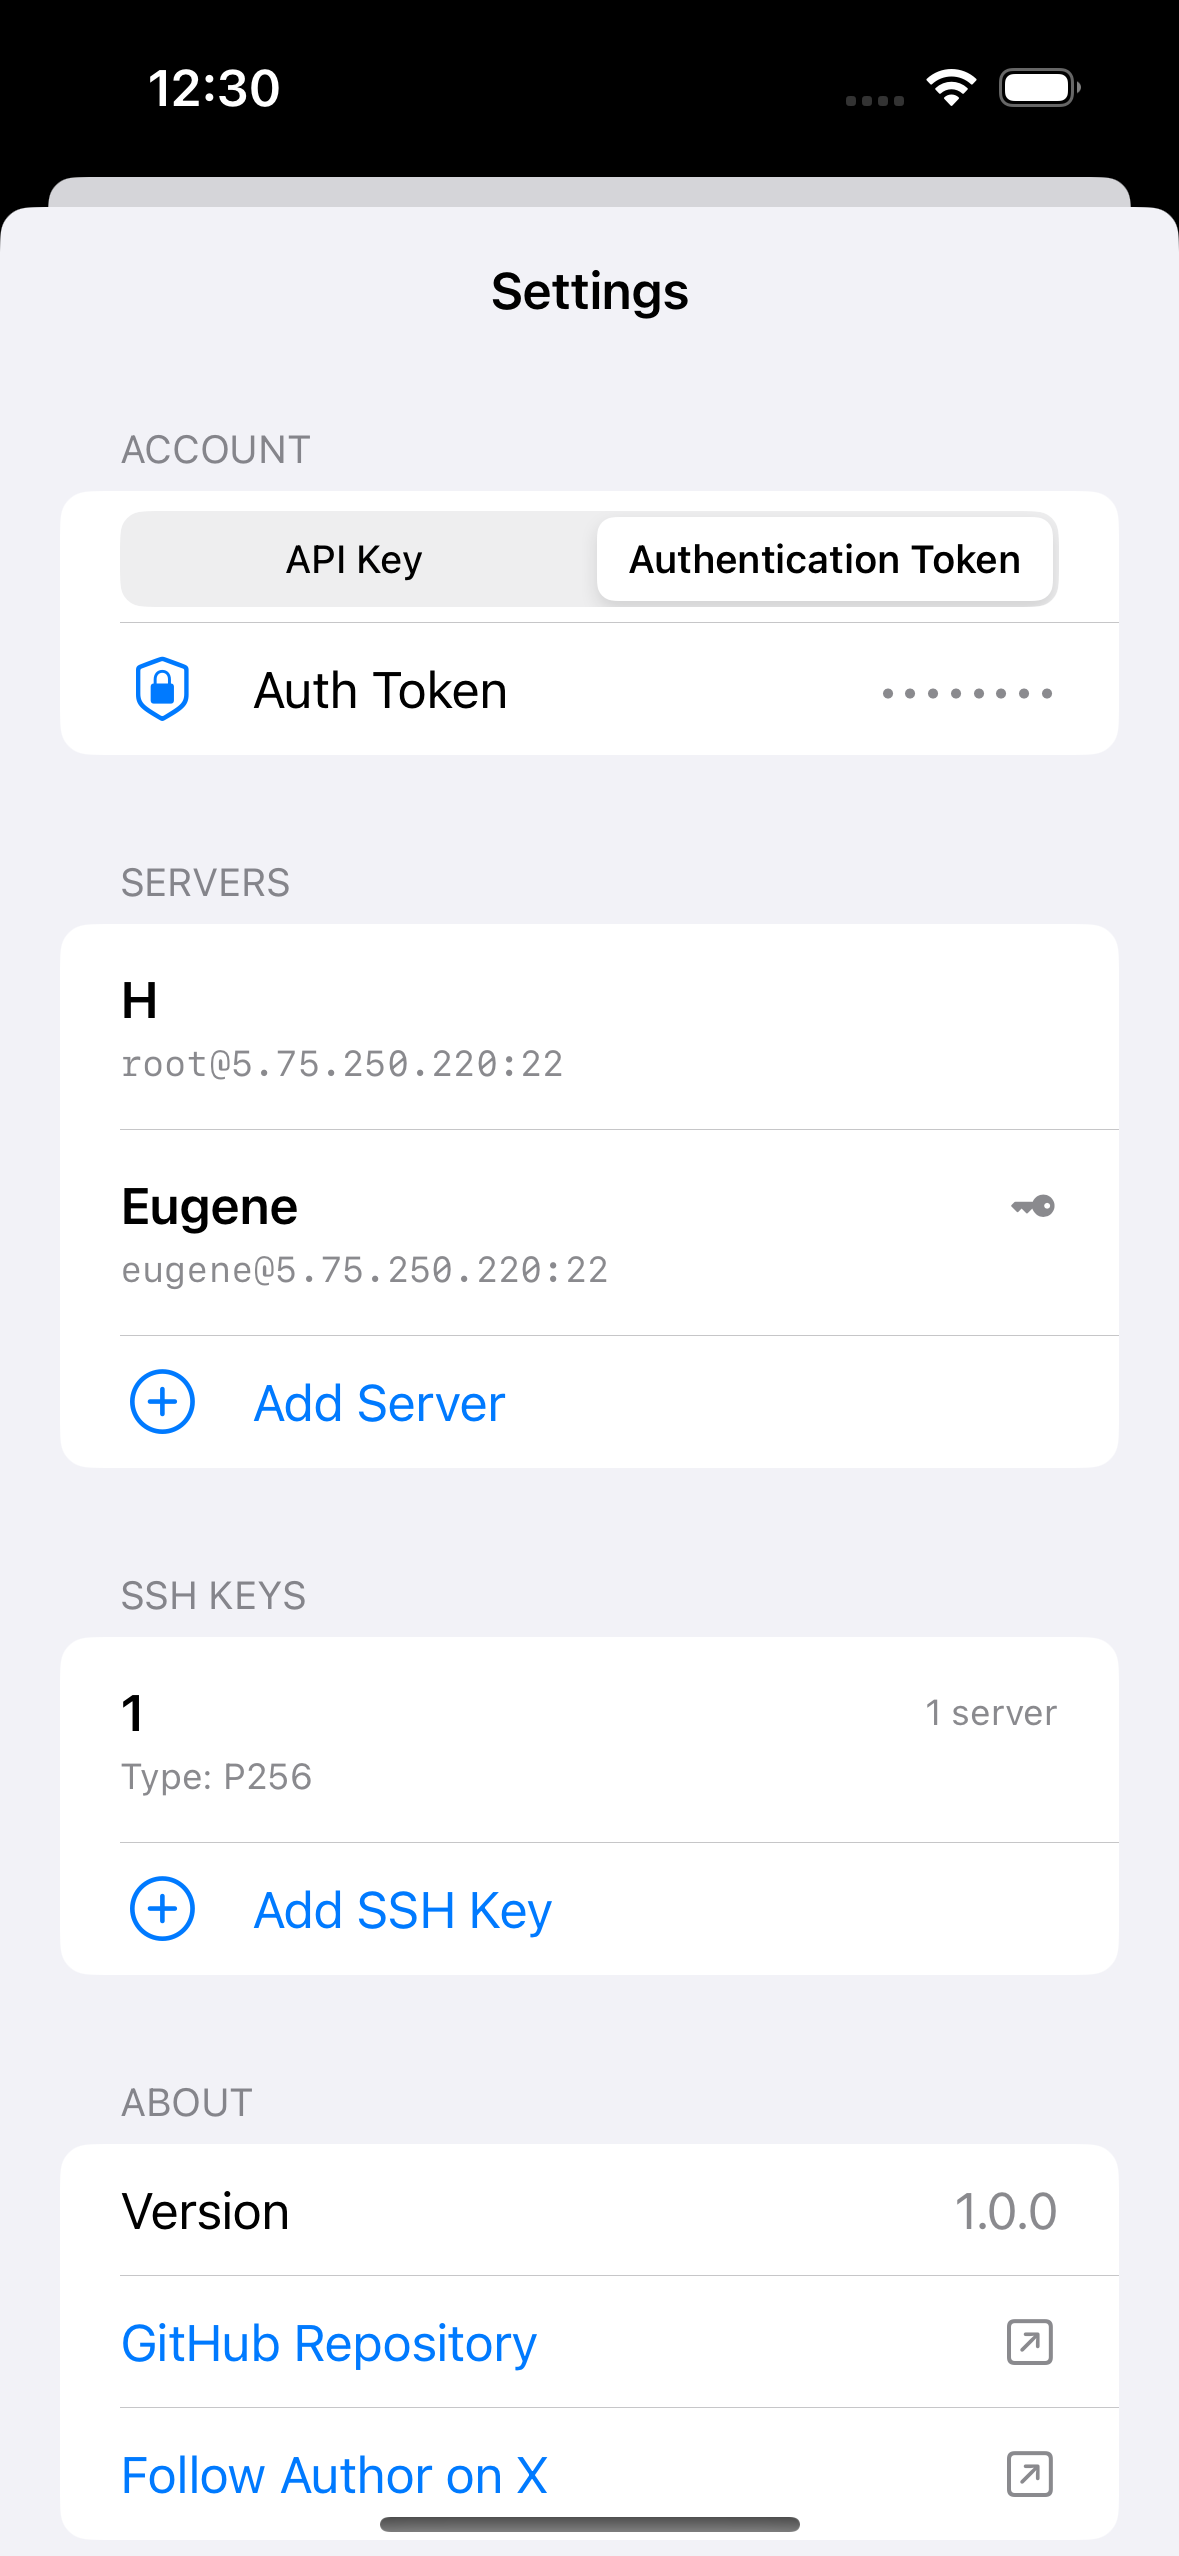
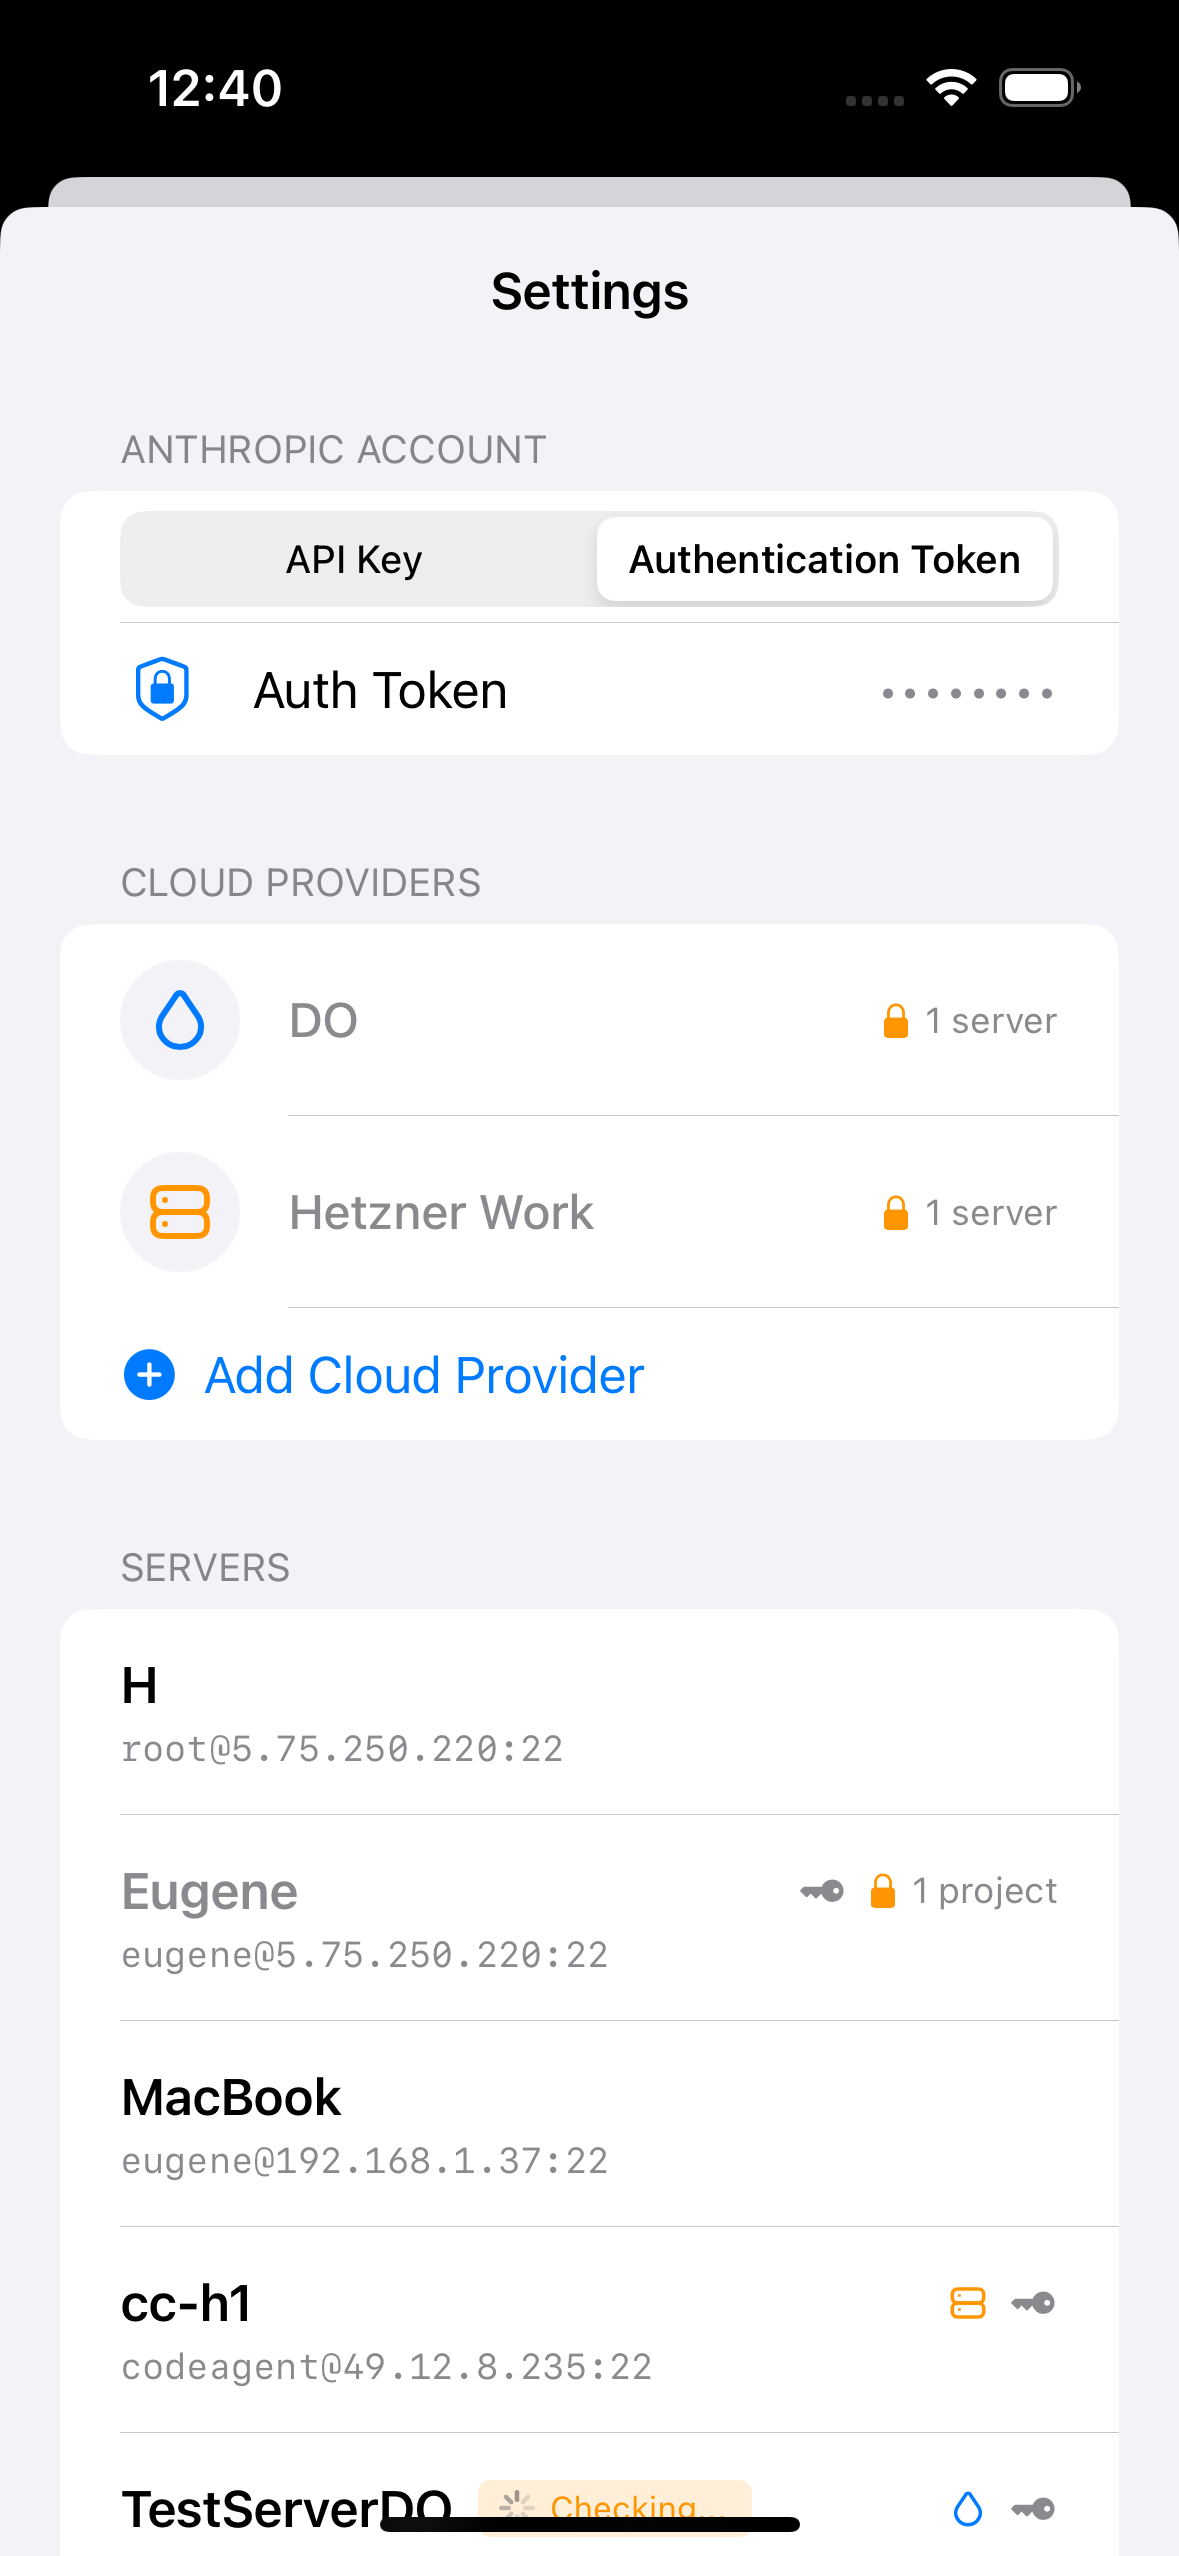
Update README with new screenshots and features for server provisioning

diff --git a/README.md b/README.md
@@ -14,10 +14,16 @@ https://apps.apple.com/app/codeagents-mobile/id6748273716
 ## Screenshots
 
 <img src="screenshots/screenshot_1.png" width="250" alt="Screenshot 1" /> <img src="screenshots/screenshot_2.png" width="250" alt="Screenshot 2" /> <img src="screenshots/screenshot_3.png" width="250" alt="Screenshot 3" /> <img src="screenshots/screenshot_4.png" width="250" alt="Screenshot 4" />
+<img src="screenshots/screenshot_5.png" width="250" alt="Screenshot 5" />
+<img src="screenshots/screenshot_6.png" width="250" alt="Screenshot 6" />
+<img src="screenshots/screenshot_7.png" width="250" alt="Screenshot 7" />
+<img src="screenshots/screenshot_8.png" width="250" alt="Screenshot 8" />
 
 ## Features
-
-- **NEW** MCP servers support 
+- **NEW** Provision servers with Digital Ocean / Hetzner 
+- **NEW** Auto install Claude Code for provisioned servers
+- **NEW** Auto create SSH keys
+- MCP servers support 
 - Connect to remote servers via SSH
 - Interact with Claude Code through a native iOS interface
 - Supports both API key and subscription-based authentication (OAuth tokens)